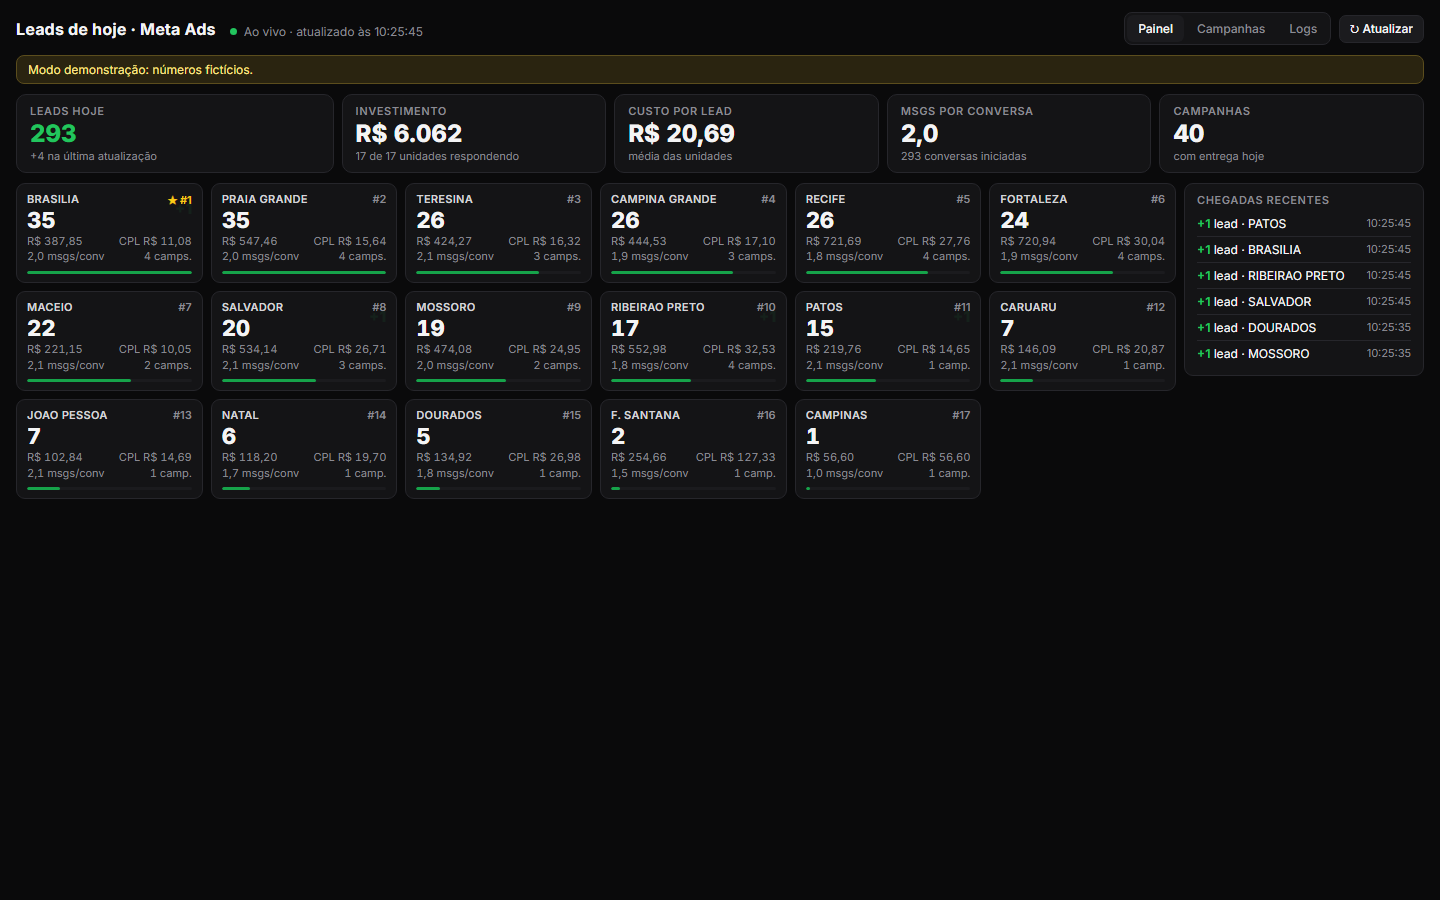
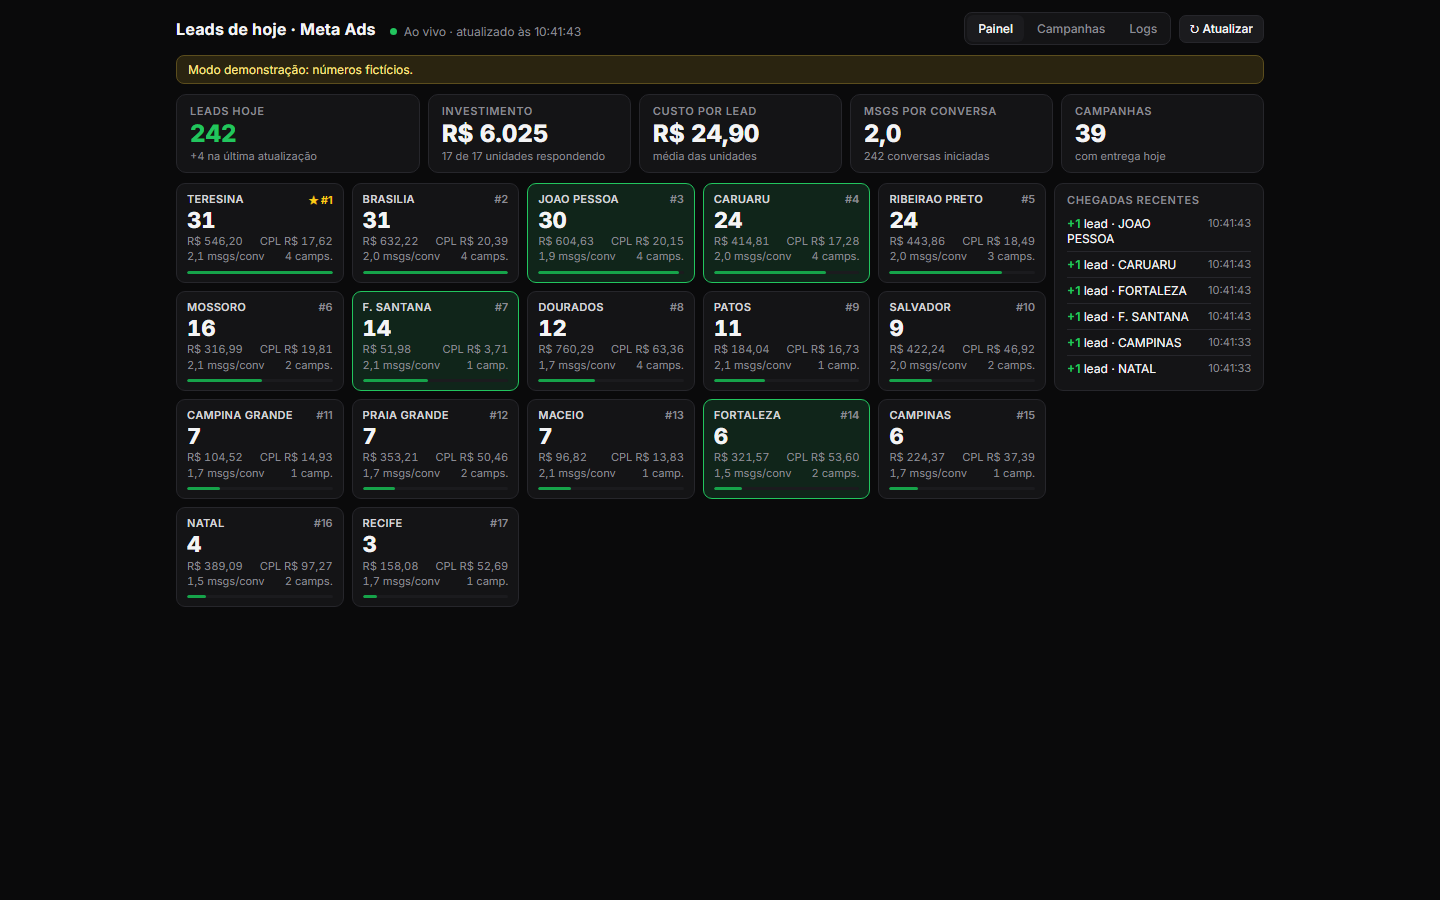
Painel menor e filtros nas colunas de campanhas
Limita a largura do painel, mostra só campanhas [MENSAGENS], remove a
coluna 5+ msgs e adiciona ordenação e filtro em cada coluna.

diff --git a/index.html b/index.html
@@ -14,7 +14,7 @@
   *{box-sizing:border-box}
   [hidden]{display:none!important}
   body{margin:0;background:var(--bg);color:var(--txt);font-family:Inter,system-ui,sans-serif;-webkit-font-smoothing:antialiased}
-  .wrap{max-width:1500px;margin:0 auto;padding:12px 16px 20px}
+  .wrap{max-width:1120px;margin:0 auto;padding:12px 16px 20px}
   header{display:flex;flex-wrap:wrap;gap:8px 20px;align-items:center;justify-content:space-between;margin-bottom:10px}
   .tit{display:flex;flex-wrap:wrap;align-items:baseline;gap:2px 14px}
   h1{font-size:16px;font-weight:700;margin:0;letter-spacing:.2px}
@@ -36,8 +36,8 @@
   .kpi .v{font-size:24px;font-weight:800;margin-top:2px;font-variant-numeric:tabular-nums;line-height:1.15}
   .kpi.main .v{color:var(--acc)}
   .kpi .s{font-size:11px;color:var(--mut);margin-top:1px;white-space:nowrap;overflow:hidden;text-overflow:ellipsis}
-  .main-grid{display:grid;grid-template-columns:1fr 240px;gap:8px;align-items:start}
-  .grid{display:grid;grid-template-columns:repeat(auto-fill,minmax(172px,1fr));gap:8px}
+  .main-grid{display:grid;grid-template-columns:1fr 210px;gap:8px;align-items:start}
+  .grid{display:grid;grid-template-columns:repeat(auto-fill,minmax(165px,1fr));gap:8px}
   .card{position:relative;background:var(--card);border:1px solid var(--line);border-radius:9px;padding:8px 10px;transition:border-color .4s, background .4s;overflow:hidden}
   .card .rank{position:absolute;top:8px;right:10px;font-size:11px;color:var(--mut);font-weight:600}
   .card .nm{font-size:11px;font-weight:600;color:#d4d4d8;letter-spacing:.3px;padding-right:30px;white-space:nowrap;overflow:hidden;text-overflow:ellipsis}
@@ -50,7 +50,7 @@
   .card.lead1 .rank{color:var(--gold)}
   .plus{position:absolute;right:10px;top:25px;font-weight:800;color:var(--acc);font-size:15px;animation:rise 2.4s ease-out forwards}
   @keyframes rise{0%{opacity:0;transform:translateY(6px)}15%{opacity:1;transform:none}80%{opacity:1}100%{opacity:0;transform:translateY(-10px)}}
-  .feed{background:var(--card);border:1px solid var(--line);border-radius:9px;padding:9px 12px;max-height:calc(100vh - 160px);overflow:auto}
+  .feed{background:var(--card);border:1px solid var(--line);border-radius:9px;padding:9px 12px;max-height:min(calc(100vh - 160px),440px);overflow:auto}
   .feed h2{font-size:11px;color:var(--mut);text-transform:uppercase;letter-spacing:.6px;margin:0 0 4px;font-weight:600}
   .ev{display:flex;justify-content:space-between;gap:8px;padding:5px 0;border-top:1px solid var(--line);font-size:12px}
   .ev:first-of-type{border-top:0}
@@ -62,10 +62,17 @@
   .bar-acoes .info{font-size:12px;color:var(--mut)}
   .filtros{display:flex;flex-wrap:wrap;gap:6px}
   .filtros button.on{border-color:var(--acc);color:var(--acc)}
-  input{background:var(--card);color:var(--txt);border:1px solid var(--line);border-radius:7px;padding:5px 10px;font:400 12px Inter,sans-serif;width:260px;max-width:100%}
-  .tabela{background:var(--card);border:1px solid var(--line);border-radius:9px;overflow:auto;max-height:calc(100vh - 110px)}
+  input{background:var(--card);color:var(--txt);border:1px solid var(--line);border-radius:6px;padding:3px 6px;font:400 11px Inter,sans-serif;width:100%;min-width:50px}
+  th.esq input{min-width:90px}
+  th input{text-align:left}
+  .ord{background:none;border:0;padding:0;font:inherit;color:inherit;border-radius:3px}
+  .ord:hover{color:var(--txt)}
+  th[aria-sort] .ord{color:var(--acc)}
+  .linha-fil th{padding-top:0}
+  .tabela{background:var(--card);border:1px solid var(--line);border-radius:9px;overflow:auto;max-height:min(calc(100vh - 110px),620px)}
   table{width:100%;border-collapse:collapse;font-size:12px;font-variant-numeric:tabular-nums}
-  th{position:sticky;top:0;background:var(--card2);color:var(--mut);font-size:11px;font-weight:600;text-align:right;padding:7px 10px;white-space:nowrap}
+  thead{position:sticky;top:0;z-index:1}
+  th{background:var(--card2);color:var(--mut);font-size:11px;font-weight:600;text-align:right;padding:7px 10px;white-space:nowrap}
   td{padding:6px 10px;border-top:1px solid var(--line);text-align:right;white-space:nowrap}
   th.esq,td.esq{text-align:left}
   td.nome{white-space:normal;min-width:220px}
@@ -113,15 +120,11 @@
 
   <main id="aba-campanhas" hidden>
     <div class="bar-acoes">
-      <input id="busca" type="search" placeholder="Buscar campanha ou unidade" aria-label="Buscar campanha ou unidade">
       <span class="info" id="campInfo"></span>
+      <button id="limparFiltros">Limpar filtros</button>
     </div>
     <div class="tabela"><table>
-      <thead><tr>
-        <th class="esq">Campanha</th><th class="esq">Unidade</th><th>Conversas</th>
-        <th title="Estimativa mínima">Msgs/conversa</th><th>2+ msgs</th><th>3+ msgs</th><th>5+ msgs</th>
-        <th>Leads</th><th>Investimento</th><th>CPL</th>
-      </tr></thead>
+      <thead id="campCab"></thead>
       <tbody id="campLinhas"></tbody>
     </table></div>
   </main>
@@ -212,7 +215,7 @@ renderLogs();
 // ---- modo demonstração (?demo) ----
 const demoCampanha = i => {
   const conversas = Math.floor(Math.random()*14), m2 = Math.floor(conversas*.6), m3 = Math.floor(m2*.6), m5 = Math.floor(m3*.5);
-  return {id:String(i), nome:`Mensagens | Público ${String.fromCharCode(65+i)}`, leads:conversas, conversas, m2, m3, m5, msgs:conversas+m2+m3+2*m5, gasto:Math.random()*220+40};
+  return {id:String(i), nome:`${i===2?'[TRÁFEGO]':'[MENSAGENS]'} Público ${String.fromCharCode(65+i)}`, leads:conversas, conversas, m2, m3, m5, msgs:conversas+m2+m3+2*m5, gasto:Math.random()*220+40};
 };
 const demoBase = ['F. SANTANA','FORTALEZA','MOSSORO','TERESINA','SALVADOR','CAMPINA GRANDE','CARUARU','JOAO PESSOA','NATAL','RECIFE','RIBEIRAO PRETO','BRASILIA','PRAIA GRANDE','CAMPINAS','DOURADOS','MACEIO','PATOS']
   .map(u => ({unidade:u, campanhas:Array.from({length:1+Math.floor(Math.random()*4)}, (_,i)=>demoCampanha(i))}));
@@ -306,22 +309,67 @@ function render(d){
   anterior = Object.fromEntries(ok.map(u=>[u.unidade,u.leads]));
 }
 
+// ---- aba Campanhas: só a tag abaixo, com ordenação e filtro em cada coluna ----
+const TAG_CAMPANHA = '[MENSAGENS]';
+const COLUNAS = [
+  {k:'nome', t:'Campanha', txt:true},
+  {k:'unidade', t:'Unidade', txt:true},
+  {k:'conversas', t:'Conversas'},
+  {k:'mpc', t:'Msgs/conversa', dica:'Estimativa mínima'},
+  {k:'m2', t:'2+ msgs'},
+  {k:'m3', t:'3+ msgs'},
+  {k:'leads', t:'Leads'},
+  {k:'gasto', t:'Investimento'},
+  {k:'cpl', t:'CPL'},
+];
+let ordem = {k:'conversas', dir:-1};
+
+$('campCab').innerHTML = `<tr>${COLUNAS.map(c => `<th class="${c.txt?'esq':''}" data-k="${c.k}"><button class="ord" title="${c.dica || 'Ordenar'}">${c.t}<span class="seta"></span></button></th>`).join('')}</tr>
+  <tr class="linha-fil">${COLUNAS.map(c => `<th class="${c.txt?'esq':''}"><input data-k="${c.k}" ${c.txt?'':'inputmode="decimal"'} placeholder="${c.txt?'Filtrar':'mín.'}" aria-label="Filtrar ${c.t}"></th>`).join('')}</tr>`;
+
+function passaFiltro(c, campo){
+  const v = campo.value.trim();
+  if (!v) return true;
+  if (COLUNAS.find(x => x.k === campo.dataset.k).txt) return c[campo.dataset.k].toLowerCase().includes(v.toLowerCase());
+  const min = Number(v.replace(',', '.'));
+  return Number.isNaN(min) || (c[campo.dataset.k] != null && c[campo.dataset.k] >= min);
+}
+function comparar(a, b){
+  const x = a[ordem.k], y = b[ordem.k];
+  if (x == null || y == null) return (x == null) - (y == null);   // sem valor fica sempre no fim
+  return ordem.dir * (typeof x === 'string' ? x.localeCompare(y, 'pt-BR') : x - y);
+}
 function renderCampanhas(){
-  const q = $('busca').value.trim().toLowerCase();
-  const linhas = campanhas
-    .filter(c => !q || `${c.nome} ${c.unidade}`.toLowerCase().includes(q))
-    .sort((a,b) => b.conversas - a.conversas || b.gasto - a.gasto);
-  $('campInfo').textContent = `${linhas.length} de ${campanhas.length} campanhas · msgs/conversa é uma estimativa mínima`;
+  const campos = [...document.querySelectorAll('#campCab input')];
+  const base = campanhas
+    .filter(c => c.nome.toUpperCase().includes(TAG_CAMPANHA))
+    .map(c => ({...c, mpc: c.conversas ? c.msgs/c.conversas : null, cpl: c.leads ? c.gasto/c.leads : null}));
+  const linhas = base.filter(c => campos.every(f => passaFiltro(c, f))).sort(comparar);
+
+  document.querySelectorAll('#campCab th[data-k]').forEach(th => {
+    const ativa = th.dataset.k === ordem.k;
+    if (ativa) th.setAttribute('aria-sort', ordem.dir > 0 ? 'ascending' : 'descending'); else th.removeAttribute('aria-sort');
+    th.querySelector('.seta').textContent = ativa ? (ordem.dir > 0 ? ' ▲' : ' ▼') : '';
+  });
+  $('campInfo').textContent = `${linhas.length} de ${base.length} campanhas ${TAG_CAMPANHA} · msgs/conversa é uma estimativa mínima`;
   $('campLinhas').innerHTML = linhas.length
     ? linhas.map(c => `<tr>
         <td class="esq nome">${esc(c.nome)}</td><td class="esq">${esc(c.unidade)}</td>
         <td class="forte">${c.conversas}</td><td>${media(c.msgs, c.conversas)}</td>
-        <td>${c.m2}</td><td>${c.m3}</td><td>${c.m5}</td>
-        <td>${c.leads}</td><td>${brl(c.gasto)}</td><td>${c.leads ? brl(c.gasto/c.leads) : '–'}</td>
+        <td>${c.m2}</td><td>${c.m3}</td>
+        <td>${c.leads}</td><td>${brl(c.gasto)}</td><td>${brl(c.cpl)}</td>
       </tr>`).join('')
-    : '<tr><td class="esq" colspan="10"><div class="empty">Nenhuma campanha encontrada.</div></td></tr>';
+    : `<tr><td class="esq" colspan="${COLUNAS.length}"><div class="empty">Nenhuma campanha encontrada.</div></td></tr>`;
 }
-$('busca').oninput = renderCampanhas;
+$('campCab').oninput = renderCampanhas;
+$('campCab').onclick = e => {
+  const th = e.target.closest('.ord')?.closest('th');
+  if (!th) return;
+  const k = th.dataset.k;
+  ordem = ordem.k === k ? {k, dir:-ordem.dir} : {k, dir:COLUNAS.find(c => c.k === k).txt ? 1 : -1};
+  renderCampanhas();
+};
+$('limparFiltros').onclick = () => { document.querySelectorAll('#campCab input').forEach(f => f.value = ''); renderCampanhas(); };
 
 async function ciclo(manual){
   if (buscando) return;
